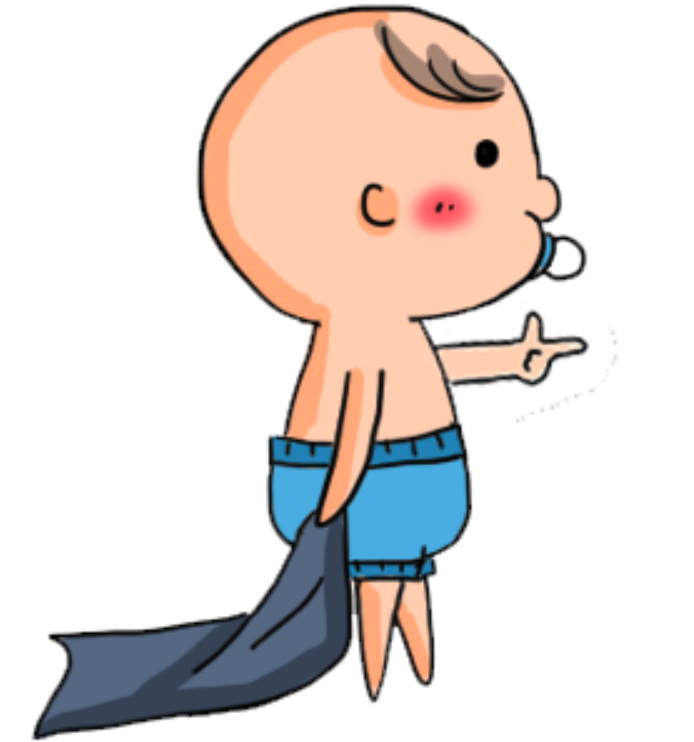
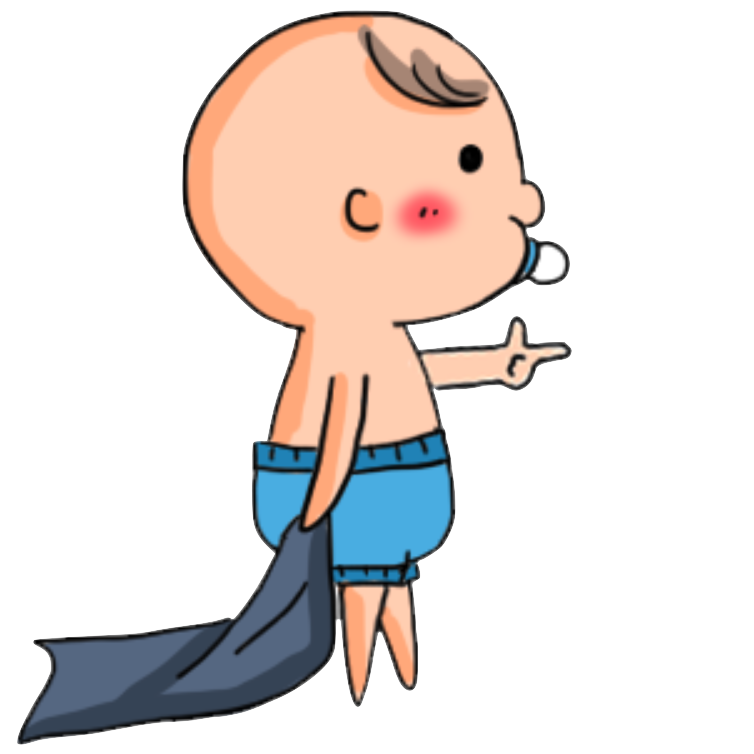
Add tanks file image

Changed region(s): [[0.0, 0.0, 0.8473, 1.0]]

diff --git a/_includes/archive-single-game.html b/_includes/archive-single-game.html
@@ -43,14 +43,8 @@
     {% if post.start_date %}<p class="page__meta"><b><i class="fas fa-clock" aria-hidden="true"></i> &nbsp;&nbsp;  {{ post.start_date | date: '%B %d, %Y' }} {% if post.end_date %} - {{ post.end_date | date: '%B %d, %Y' }}{% endif %}</b></p>{% endif %}
 
     <p class="page__meta"><b>&nbsp;<i class="fas fa-map-marker-alt	" aria-hidden="true"></i> &nbsp;&nbsp;  {{post.location}}</b></p>
-
-    <p class="page__meta"><b><i class="fa fa-university" aria-hidden="true"></i> &nbsp;&nbsp;  {{post.venue}}</b></p>
-
-    <p class="page__meta"><b>&nbsp;<i class="fa fa-user" aria-hidden="true"></i> &nbsp;&nbsp;&nbsp; {{post.type}}</b></p>
-
-    <p class="page__meta"><b><i class="fa fa-line-chart" aria-hidden="true"></i> &nbsp;&nbsp; {{post.status}}</b></p>
-
-    <img src="{{ base_path }}{{ post.image }}">
+    <p class="page__meta"><b><i class="fa fa-gamepad" aria-hidden="true"></i> &nbsp;&nbsp;&nbsp;{{post.type}}</b></p>
 
   <!-- </article>
 </div> -->
+<img src="{{ base_path }}{{ post.image }}" style="width:120px;height:120px; margin-top: -150px; margin-left: 400px">

diff --git a/_games/biobaby.md b/_games/biobaby.md
@@ -3,7 +3,6 @@ title: "Biobaby"
 collection: games
 type: "Unity game"
 permalink: /games/2020-07-01-complex-dynamic
-venue: "Bioinformatics Lab, Institute of Information Science, Academia Sinica"
 start_date: 2020-01-01
 end_date: 2020-01-01
 location: "Taipei, Taiwan"
